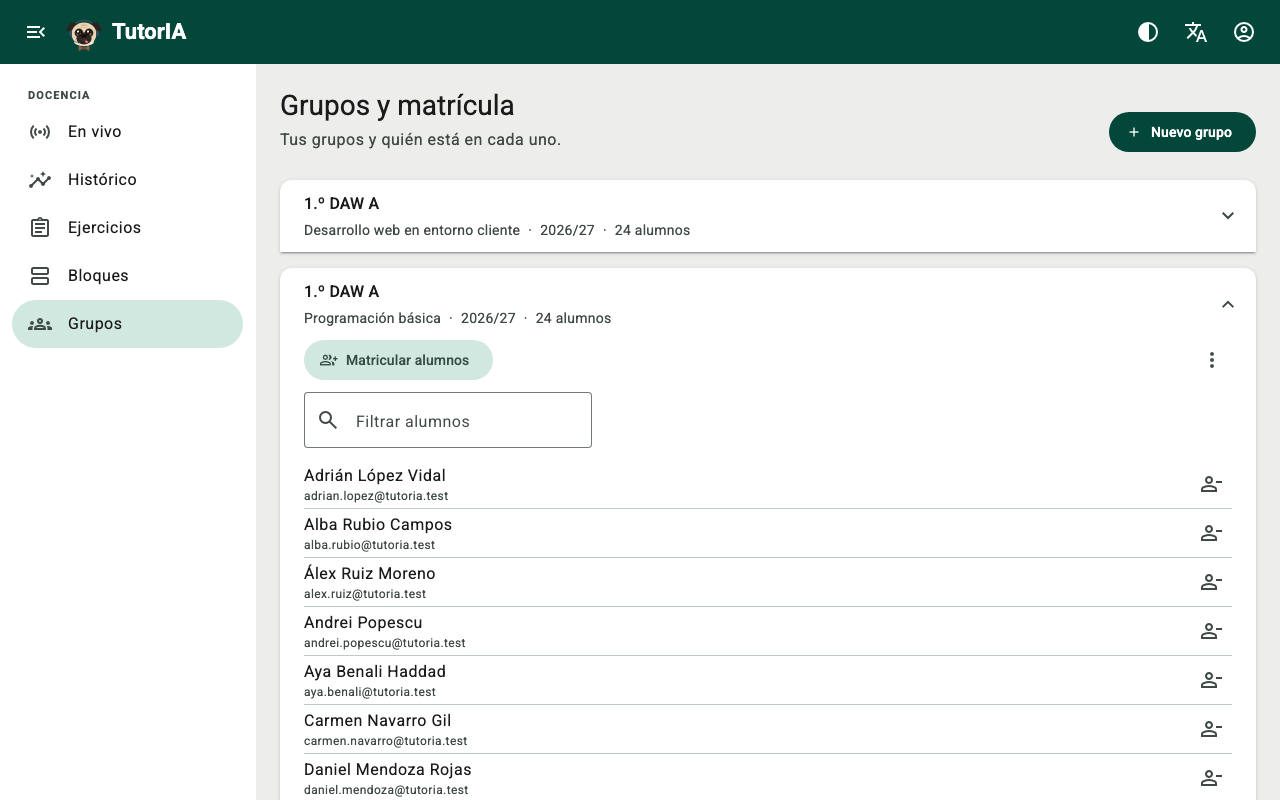
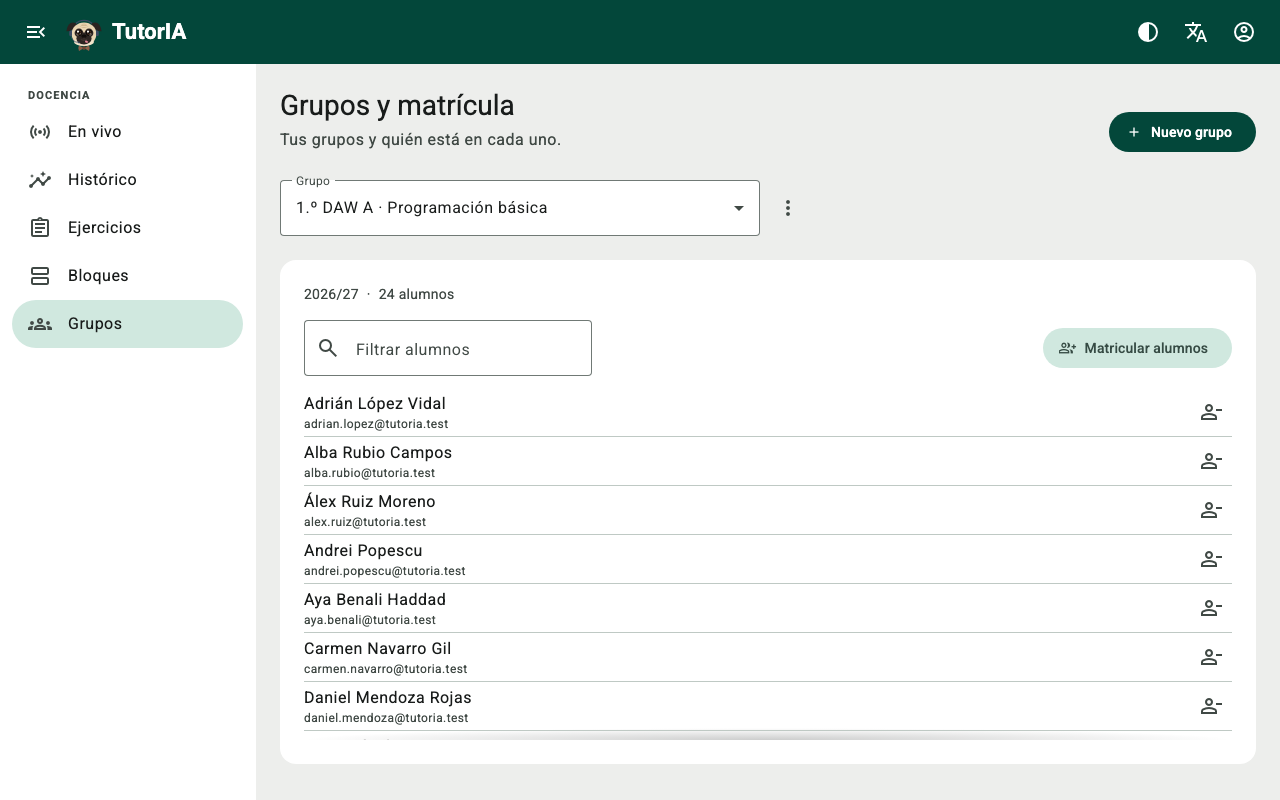
docs: record the checks of the rebuilt step 5.2b (step 5.2b)
Add the axe, width and focus checks of the rebuilt screen, its new
screenshots, the commit hashes and a note on the metrics, which mixed
this resumed session with others running in parallel.

diff --git a/docs/REGISTRO.md b/docs/REGISTRO.md
@@ -79,7 +79,7 @@ Este registro alimenta el seguimiento de la planificación con horas reales, el 
 | 18/11/2026    | 5.1a                  | ≈ 25 min (estimadas)                        | 17 min de trabajo (Claude Code, `claude-opus-5-5`)                                                     | 8,2 M / 53 k                          | 3,90 $                                                 | 2235 (+44) / 39 (+0)                                                       | Las cuentas con datos simulados y reales (D-072): `user-rules.ts` con TDD, sin importaciones, que usan la app y la función (rol propio, baja propia, rol con grupos o matrículas, correo normalizado y límites); `AdminService` con contraseña, `MockAdminService` con la tabla `passwords` y `MockAuthService` que entra con ella; la Edge Function `admin-users` (alta con el rol y sin cuentas a medias, baja con `status` y bloqueo en Auth, contraseña restablecida, 15 tests de Deno) y `SupabaseAdminService`. La contraseña, de 8 a 64 caracteres; la que Auth rechaza por pasar de 72 bytes, probada en local, es un 400. `minimum_password_length` a 8                                                                                                                                                                                                                                                                                                                                                                                                                                                                                                                                                                                                                                                                                                                                                                                                | Rechazó contar el límite en bytes y aprobó 8 a 64 caracteres; preguntó si se había probado el caso de los bytes: se probó en local y sacó un 500, ahora 400. El agente comprobó en local alta, correo repetido, rol propio, docente con grupos, contraseña restablecida, baja y reactivación. `npm run check` en verde. Pendiente de la revisión del autor                                                                                                                                                                                                                                                                                                                                                                                                                                                                                                     | `1127725`, `37e670a`, `ac6f9a6` y `c7e28d1` (la zona horaria de los tests, D-074)                                                                                               | [5.1a](bitacora/5.1a-usuarios-servicio-funcion.md)                |
 | 19/11/2026    | 5.1b                  | ≈ 38 min (estimadas)                        | 29 min de trabajo (Claude Code, `claude-opus-5-5`)                                                     | 41 M / 126 k                          | 13,22 $                                                | 2294 (+59) / 39 (+0)                                                       | La pantalla de usuarios (`/admin/usuarios`, ficha 10, CU-06): boceto con el seed y ficha; la lista trae los grupos de cada cuenta (D-075: en el seed nadie podía cambiar de rol y solo se habría sabido al guardar), en Supabase con una consulta incrustada; tabla ordenable que se desplaza en su zona, con «Tú», «Desactivada» y grupos; filtros de texto, rol y estado en la URL; alta con «Generar», «Mostrar» y «Copiar», correo repetido marcado en el formulario, rol bloqueado con su motivo, contraseña restablecida y desactivar con confirmación; roles en colectivo; textos en tres idiomas y el campo de contraseña en el muestrario                                                                                                                                                                                                                                                                                                                                                                                                                                                                                                                                                                                                                                                                                                                                                                                                              | Aprobó el boceto y los siete ajustes; pidió ordenar la tabla y un filtro de estado en lugar del interruptor, y entraron. El agente la revisó en el navegador y pasó axe en todos los estados, en claro y oscuro, a 375, 768 y 1280 px; la consulta, contra Supabase local. `npm run check` en verde. El autor dio la pantalla por buena                                                                                                                                                                                                                                                                                                                                                                                                                                                                                                                        | `987d1c0`, `fde2367` y el de los hashes                                                                                                                                         | [5.1b](bitacora/5.1b-usuarios-pantalla.md)                        |
 | 19/11/2026    | 5.2a                  | ≈ 78 min (estimadas)                        | 60 min de trabajo en tres tandas (Claude Code, `claude-opus-5-5`)                                      | 25,5 M / 101 k                        | 10,16 $                                                | 2342 (+48) / 39 (+0)                                                       | Grupos y matrícula sin pantalla (RF-16, D-072): migración `groups_and_enrollment` (el docente crea sus grupos y matricula; el administrador cambia el docente; sin cambio de asignatura; solo se borra lo no empezado; curso `2026/27`), disparadores que separan `invalid` de `forbidden` como el simulado, `search_students` sin tildes y `group_summaries`; 27 comprobaciones de pgTAP; `GroupService` con TDD en sus dos versiones (lote de 50 como mucho) y `AdminService` sin grupos. Revisión a fondo con peticiones reales contra Supabase local: un docente no podía crear grupos (`returning` y `teaches_group()`) y al matricular el alumno volvía `null`; migración `groups_review` (política de lectura sobre la fila, RPC `enroll_students`, `P0002` para un grupo ajeno, docente comprobado solo al elegirlo) y 7 comprobaciones de pgTAP con `returning`. Segunda revisión con casos límite: solo se matricula con `enroll_students` (`insert` directo cerrado, que se saltaba el tope de 50), borrar un grupo ajeno es `not_found` también en Supabase y el simulado comprueba en el orden de Postgres (migración `enrollment_through_rpc`)                                                                                                                                                                                                                                                                                                    | Iteración 1: explicar las mejoras; se retira `canRemove`; iteración 2: cómo probarlo; iteración 3: revisión a fondo pedida por el autor; iteración 4: segunda revisión a fondo pedida por el autor                                                                                                                                                                                                                                                                                                                                                                                                                                                                                                                                                                                                                                                             | `8ae8128` feat(groups), `89ebc9e` docs, `c4381f8` hashes, `6f48677` fix(groups), `b5942e5` hash, `40b9806` fix(groups)                                                          | [5.2a](bitacora/5.2a-grupos-permisos-servicio.md)                 |
-| 19/11/2026    | 5.2b                  | ≈ 33 min (estimadas)                        | 25 min de trabajo (Claude Code, `claude-opus-5-5`)                                                     | 17,9 M / 71 k                         | 6,40 $                                                 | 2384 (+42) / 39 (+0)                                                       | La pantalla de grupos y matrícula (`/docente/grupos`, RF-16, CU-07): un panel por grupo con su matrícula, abierto en la URL; crear, editar y eliminar (no el empezado, con su motivo); matricular buscando, con chips y 50 como mucho; dar de baja; filtro y zona desplazable en los grupos grandes; arreglado el test inestable de `password-dialog` (escribía antes del foco del diálogo)                                                                                                                                                                                                                                                                                                                                                                                                                                                                                                                                                                                                                                                                                                                                                                                                                                                                                                                                                                                                                                                                     | Plan: arreglos 1 y 2 aprobados; iteración 1: qué probar, y por bueno; iteración 2: revisión (axe crítico, scroll de la página, foco, filtro oculto, nombres ambiguos) y pantalla rehecha con desplegable, más mejoras menores y «Añadir los de otro grupo»                                                                                                                                                                                                                                                                                                                                                                                                                                                                                                                                                                                                     | `582f43a` feat(groups), `a724fe7` docs                                                                                                                                          | [5.2b](bitacora/5.2b-grupos-pantalla.md)                          |
+| 19/11/2026    | 5.2b                  | ≈ 33 min (estimadas)                        | 25 min de trabajo (Claude Code, `claude-opus-5-5`)                                                     | 17,9 M / 71 k                         | 6,40 $                                                 | 2384 (+42) / 39 (+0)                                                       | La pantalla de grupos y matrícula (`/docente/grupos`, RF-16, CU-07): un panel por grupo con su matrícula, abierto en la URL; crear, editar y eliminar (no el empezado, con su motivo); matricular buscando, con chips y 50 como mucho; dar de baja; filtro y zona desplazable en los grupos grandes; arreglado el test inestable de `password-dialog` (escribía antes del foco del diálogo)                                                                                                                                                                                                                                                                                                                                                                                                                                                                                                                                                                                                                                                                                                                                                                                                                                                                                                                                                                                                                                                                     | Plan: arreglos 1 y 2 aprobados; iteración 1: qué probar, y por bueno; iteración 2: revisión (axe crítico, scroll de la página, foco, filtro oculto, nombres ambiguos) y pantalla rehecha con desplegable, más mejoras menores y «Añadir los de otro grupo»                                                                                                                                                                                                                                                                                                                                                                                                                                                                                                                                                                                                     | `582f43a` feat(groups), `a724fe7` docs, `f8c144e` fix(groups), `7a580eb` docs                                                                                                   | [5.2b](bitacora/5.2b-grupos-pantalla.md)                          |
 | 19/11/2026    | 5.3a                  | ≈ 21 min (estimadas)                        | 16 min de trabajo (Claude Code, `claude-opus-5-5`)                                                     | 6,1 M / 33 k                          | 2,78 $                                                 | 2403 (+19) / 39 (+0)                                                       | Sistema sin pantalla (RF-19, CU-07, 2.5c; D-076): tipos de la prueba y `AI_PROVIDER_PRESETS`; `isValidAiProvider()` con la forma de la tabla; `AdminService` con asignaturas, proveedor y `checkAiProvider()` en las dos versiones (el simulado falla con `fail`); migración `20261119120000_ai_check.sql`; Edge Function `ai-check` (solo administración, 5 por minuto y 100 al día, un resultado por modelo, `host_not_allowed` también en un respaldo, nunca el texto del proveedor; 9 tests de Deno), probada en local con Gemini                                                                                                                                                                                                                                                                                                                                                                                                                                                                                                                                                                                                                                                                                                                                                                                                                                                                                                                           | Plan: aprobó partir el 5.3 en dos y las correcciones (número de migración repetido, boceto y ficha en el 5.3b). `npm run check` en verde. Iteración 1: preguntó cómo probarlo, llamó a `ai-check` en local y lo dio por bueno. Iteración 2, revisión a fondo: el respaldo repetido o no aceptado sale como `invalid` en su sitio y los modelos se prueban a la vez (D-076)                                                                                                                                                                                                                                                                                                                                                                                                                                                                                     | `6497196` feat(admin), `7fe3d56` docs, `a17dbcb` fix(admin)                                                                                                                     | [5.3a](bitacora/5.3a-sistema-servicio-funcion.md)                 |
 | 19/11/2026    | 5.3b                  | ≈ 1 h 37 min (estimadas)                    | ≈ 1 h 14 min de trabajo en cuatro iteraciones (Claude Code, `claude-opus-5-5`)                         | 37,2 M / 123 k                        | 13,88 $                                                | 2453 (+50) / 39 (+0)                                                       | La pantalla del sistema (`/admin/sistema`, RF-19, CU-07, 2.5c): proveedor predefinido u «Otro», modelo principal y respaldos con su propio proveedor (D-077), que se suben, bajan y quitan; «Probar la conexión» modelo a modelo y «Guardar» solo con el principal superado en el borrador actual; asignaturas por nombre con sus idiomas, crear y editar con traducciones; axe en claro y oscuro a 375, 768 y 1280 px; borrada la pantalla provisional                                                                                                                                                                                                                                                                                                                                                                                                                                                                                                                                                                                                                                                                                                                                                                                                                                                                                                                                                                                                         | Plan: boceto aprobado; el autor preguntó por los respaldos de otro proveedor y eligió hacerlos editables. Iteración 2: revisión con más esfuerzo y arreglo de la pantalla sin `ai_provider` guardado; iteración 3: las seis mejoras de la revisión, `[formRoot]` y la prueba que seguía pidiéndose tras guardar; iteración 4: segunda pasada, con el modelo repetido, el tiempo con decimales y los nombres de asignatura repetidos. Pendiente su revisión visual                                                                                                                                                                                                                                                                                                                                                                                              | `82f3068` feat(admin), `493ec86` docs, `4e665df` fix(admin), `0307572` fix(admin)                                                                                               | [5.3b](bitacora/5.3b-sistema-pantalla.md)                         |
 | 19/11/2026    | 6.1a                  | ≈ 1 h 27 min (estimadas)                    | 67 min de trabajo en cuatro iteraciones (Claude Code, `claude-opus-5-5`)                               | 60,2 M / 172 k                        | 20,60 $                                                | 2527 (+87) / 39 (+0)                                                       | La síntesis de voz (2.11, RF-08): `SpeechService` y `WebSpeechService` cargado con `injectAsync` solo con la voz activada; `speakableSentences()` (TDD); los ajustes de la voz (ninguna elegida por defecto, «Probar», región de cada voz, velocidad, «Leer las respuestas en voz alta»); `StudentVoice` (D-071); `TutorSpeaker`, frase a frase según llega la respuesta; «Escuchar»/«Parar» de ancho fijo y la mascota «hablando»                                                                                                                                                                                                                                                                                                                                                                                                                                                                                                                                                                                                                                                                                                                                                                                                                                                                                                                                                                                                                              | El autor aprobó el plan y dos mejoras; Claude lo comprobó en Chromium (chunk de 11 KB solo al activar, lectura sola, «Parar», ancho fijo). Pendiente: Edge, Safari, Firefox y Android                                                                                                                                                                                                                                                                                                                                                                                                                                                                                                                                                                                                                                                                          | `44a5e0f`, `89ce62a`, `d0695d8`, `9c23c85`, `a996213`                                                                                                                           | [6.1a](bitacora/6.1a-voz-sintesis.md)                             |

diff --git a/docs/bitacora/5.2b-grupos-pantalla.md b/docs/bitacora/5.2b-grupos-pantalla.md
@@ -1,6 +1,6 @@
 # Paso 5.2b · Grupos y matrícula: la pantalla
 
-19/11/2026 · Sesión de Claude Code (`claude-opus-5-5`) · `582f43a`, `a724fe7` y el de los hashes
+19/11/2026 · Sesión de Claude Code (`claude-opus-5-5`) · `582f43a`, `a724fe7`, `f8c144e`, `7a580eb` y el de los hashes
 
 ## Objetivo
 
@@ -62,6 +62,8 @@ Unitarios: 2384 (nuevos: 42) · e2e: 39. A `E2E-PENDIENTES.md`: el e2e de la fas
 - Plan: el autor aprobó el boceto con los arreglos 1 y 2.
 - Iteración 1: el autor preguntó qué probar (la matrícula, la baja, los grupos y la URL) y dio el paso por bueno con el commit `582f43a`.
 - Iteración 2 (revisión): el autor pidió revisar el paso con esfuerzo alto. La revisión halló que no se había cumplido la definición de terminado: no se había pasado axe ni comprobado el desplazamiento de la página. axe dio una infracción crítica (`aria-required-parent`: `mat-chip-row` dentro de `mat-chip-set`), y con un grupo abierto la página se desplazaba 164 px a 1280×720 y 305 px a 375. Además: el foco se perdía tras dar de baja y tras eliminar; el filtro quedaba activo y oculto al bajar de 11 alumnos; los dos «1.º DAW A» no se distinguían en los diálogos ni en los nombres accesibles; el buscador anunciaba la lista entera; y los textos del administrador decían «Tus grupos». El autor eligió rehacer la disposición como en Bloques e Histórico (un desplegable «Grupo» con «nombre · asignatura» y un panel con el grupo elegido) y las mejoras menores: orden del curso más reciente al más antiguo (`sortGroups`, `labelGroups`), curso de dos años seguidos (`isSchoolYear`), nombre de solo espacios rechazado, el docente desactivado de un grupo a la vista (`teacherChoices`), un fallo de asignaturas o docentes con su reintento, y «Añadir los de otro grupo» en la matrícula (`addToChoice`). Los tests y el check los pasa el autor.
+- Comprobación de la versión rehecha (Playwright temporal, borrado): axe sin infracciones en claro y oscuro con el grupo elegido, el menú, el diálogo con errores, la matrícula con chips y la confirmación de baja; sin desplazamiento de la página a 375×667, 768×1024 ni 1280×720 tras ajustar el alto de la lista (un margen propio en el móvil); el foco se queda en el panel del grupo tras la baja; consola sin errores. Las capturas del paso se rehicieron con la versión nueva. El autor pasó `npm run check` en verde e hizo los commits `f8c144e` (fix) y `7a580eb` (docs).
+- Métricas de la revisión: `npm run metrics` midió 13 h 27 min de reloj y +9243/−230 líneas porque la sesión se retomó y hubo otras en paralelo (5.2a, 5.3 y 6.1a). Lo propio de la revisión es 171 peticiones, 159 k tokens de salida, 37,7 M de caché leída (14,77 $ en total en la sesión) y +1091/−410 líneas en 19 archivos de `src`.
 
 ## Capturas
 

diff --git a/docs/screens/11-grupos.md b/docs/screens/11-grupos.md
@@ -55,7 +55,7 @@ Escritorio, tablet y móvil en una columna:
 - [x] Crear, editar y eliminar un grupo; el empezado no se elimina, con su motivo.
 - [x] Matricular buscando por nombre o correo, varios a la vez o el alumnado de otro grupo; dar de baja conservando el trabajo (RF-16).
 - [x] El grupo elegido, en la URL.
-- [ ] Revisión visual del autor de la versión rehecha.
+- [x] Revisión visual del autor de la versión rehecha.
 
 ## Fuera de alcance
 
